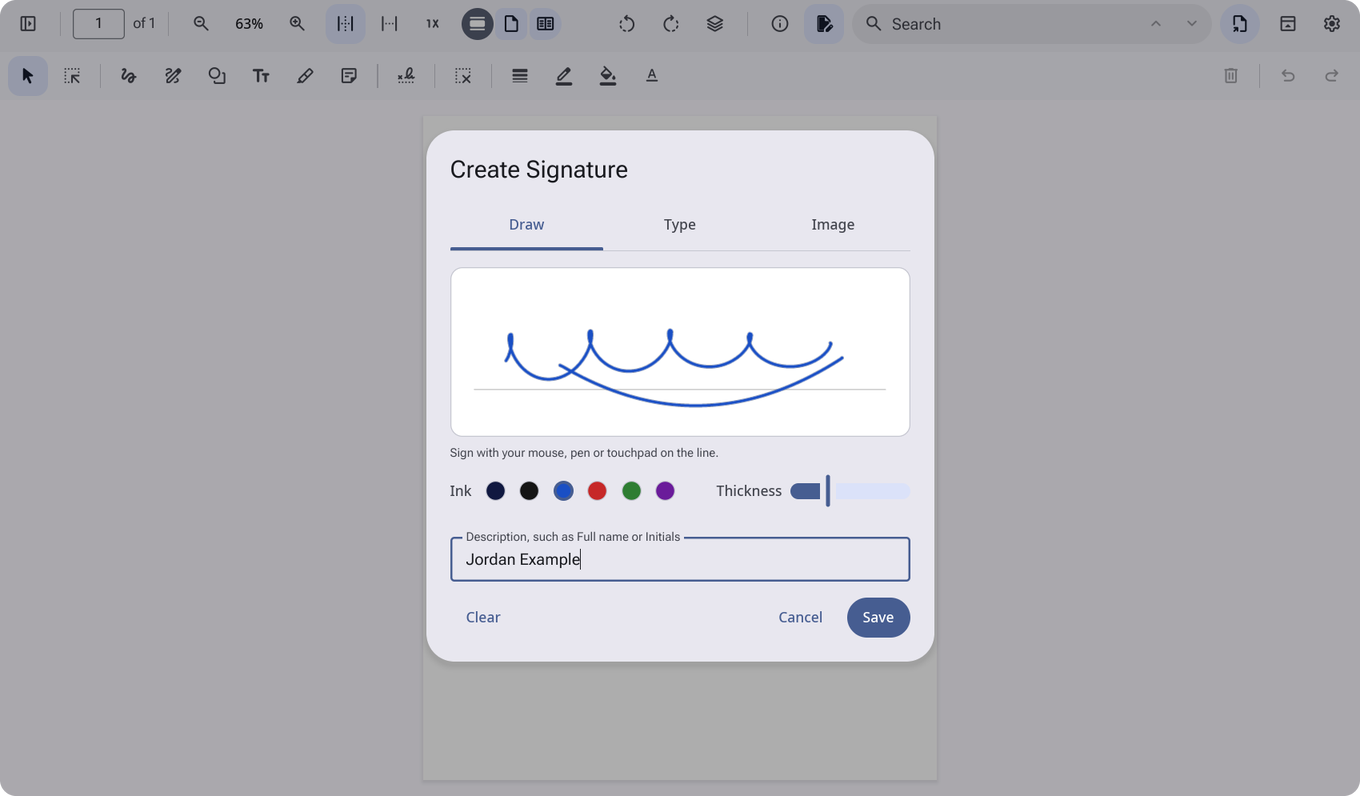
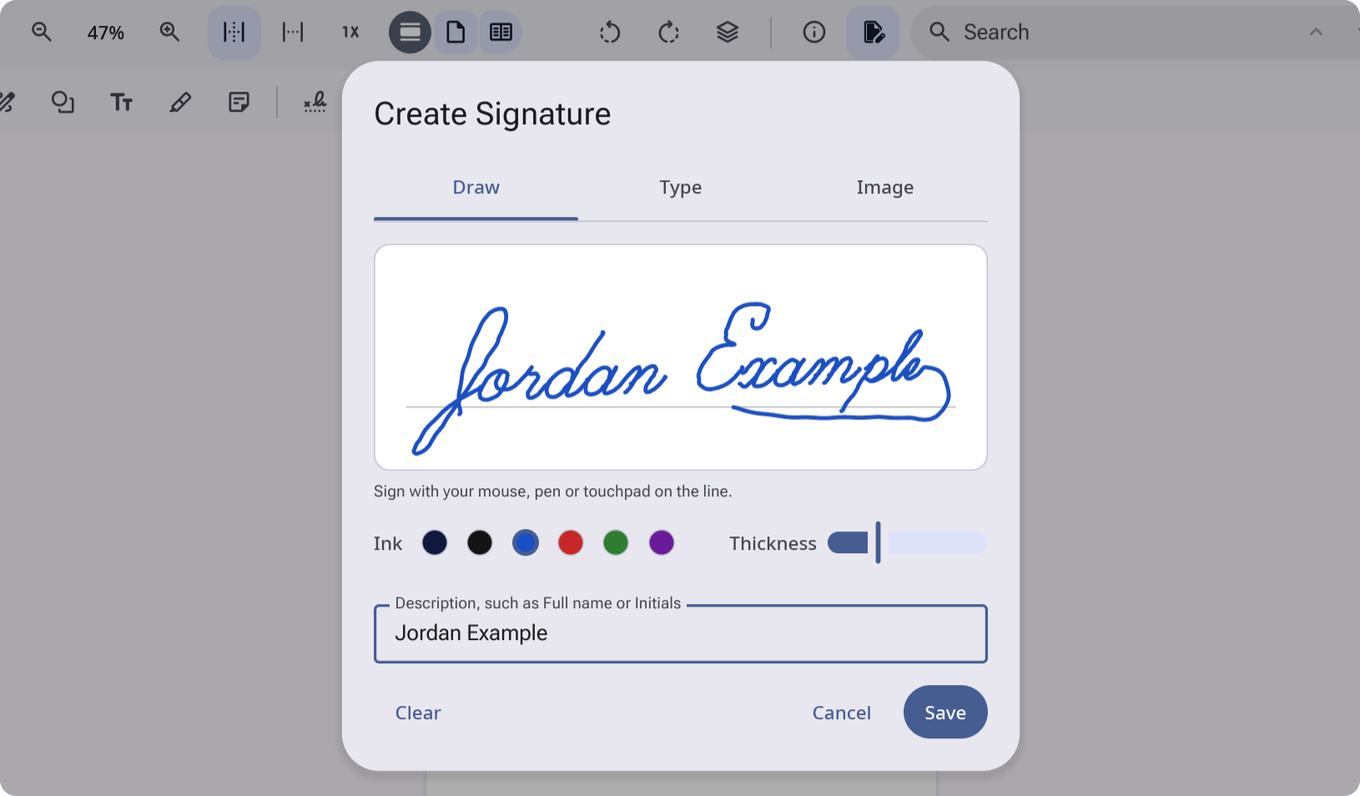
docs: show a signature being drawn
- signature-draw.gif signs "Jordan Example" by hand in blue ink, then
  types the description; the site and the guide show it
- signature-draw.png, kept for the AppStream screenshots, is the
  finished dialog with the new signature
- build-site.sh copies the GIF

diff --git a/site/index.html b/site/index.html
@@ -68,7 +68,7 @@
       <figure><img class="shot" src="screenshots/pages.png" alt="Page 3 of an annual report being dragged below page 4 in the page thumbnails, with a line where it will go" width="1360" height="796" loading="lazy"><figcaption>Drag pages to reorder</figcaption></figure>
       <figure><img class="shot" src="screenshots/redaction-applied.png" alt="A statement after redaction, with black boxes where the name, address, account numbers and tax ID were" width="1360" height="796" loading="lazy"><figcaption>Redaction that removes the content</figcaption></figure>
       <figure><img class="shot" src="screenshots/signatures.png" alt="The Sign menu open over a form, listing a drawn and a typed signature and Create Signature" width="1360" height="796" loading="lazy"><figcaption>Pick a saved signature to place it</figcaption></figure>
-      <figure><img class="shot" src="screenshots/signature-draw.png" alt="The Create Signature dialog with a signature drawn in blue ink and a description" width="1360" height="796" loading="lazy"><figcaption>Draw, type or import a signature</figcaption></figure>
+      <figure><img class="shot" src="screenshots/signature-draw.gif" alt="Signing Jordan Example in blue ink in the Create Signature dialog, then typing the description" width="1360" height="796" loading="lazy"><figcaption>Draw, type or import a signature</figcaption></figure>
     </div>
     <figure class="wide">
       <img class="shot" src="screenshots/drag-from-browser.gif" alt="Dragging a screenshot from this website onto a page of a PDF open in prev, where it lands as a picture" width="1360" height="350" loading="lazy">

diff --git a/docs/GUIDE.md b/docs/GUIDE.md
@@ -95,7 +95,7 @@ other apps read them.
 The Sign menu keeps as many signatures as you like. Click one to place it
 on the current page, then drag and resize it like any annotation.
 
-![Drawing a signature in blue ink](screenshots/signature-draw.png)
+![Signing "Jordan Example" in blue ink in the Create Signature dialog, then typing the description](screenshots/signature-draw.gif)
 
 Create Signature offers three ways in:
 
